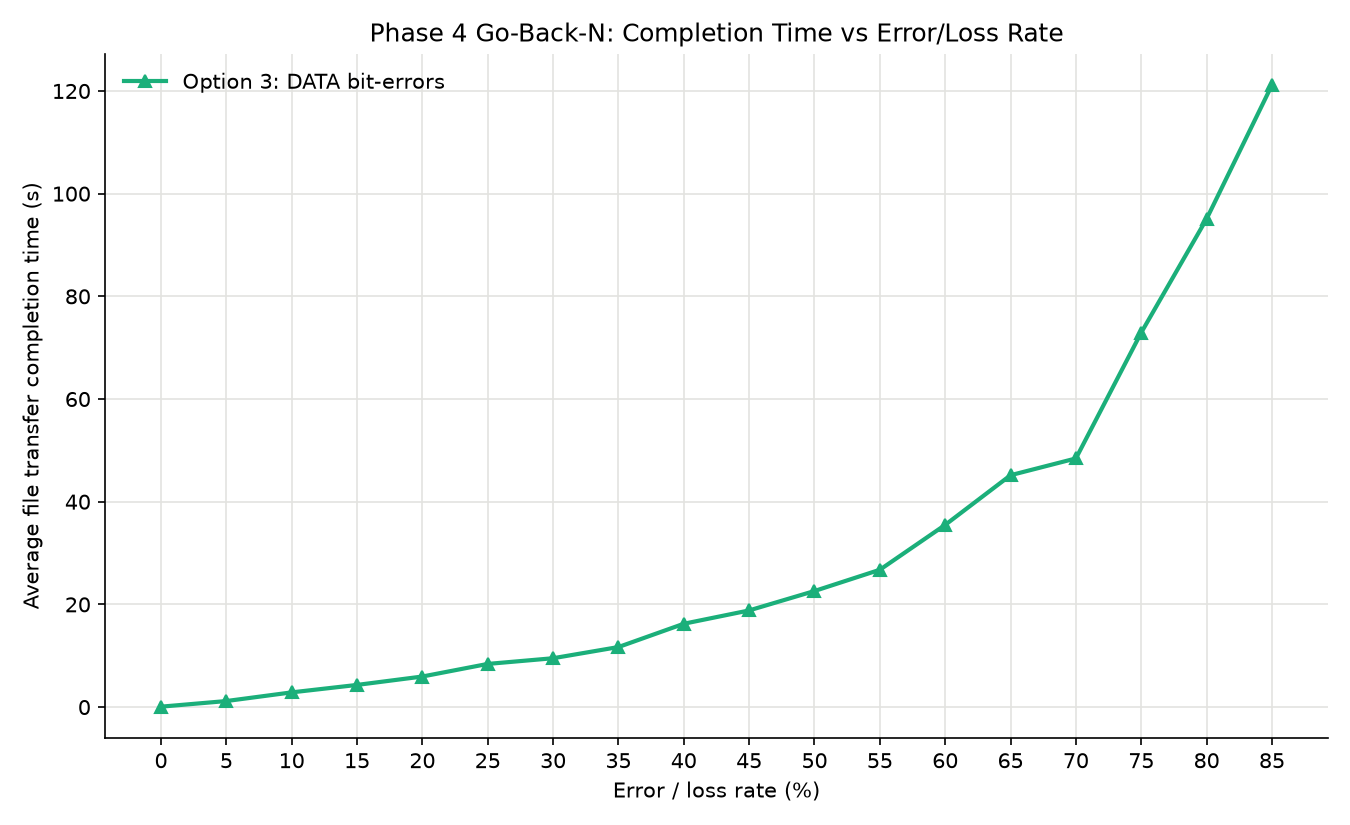
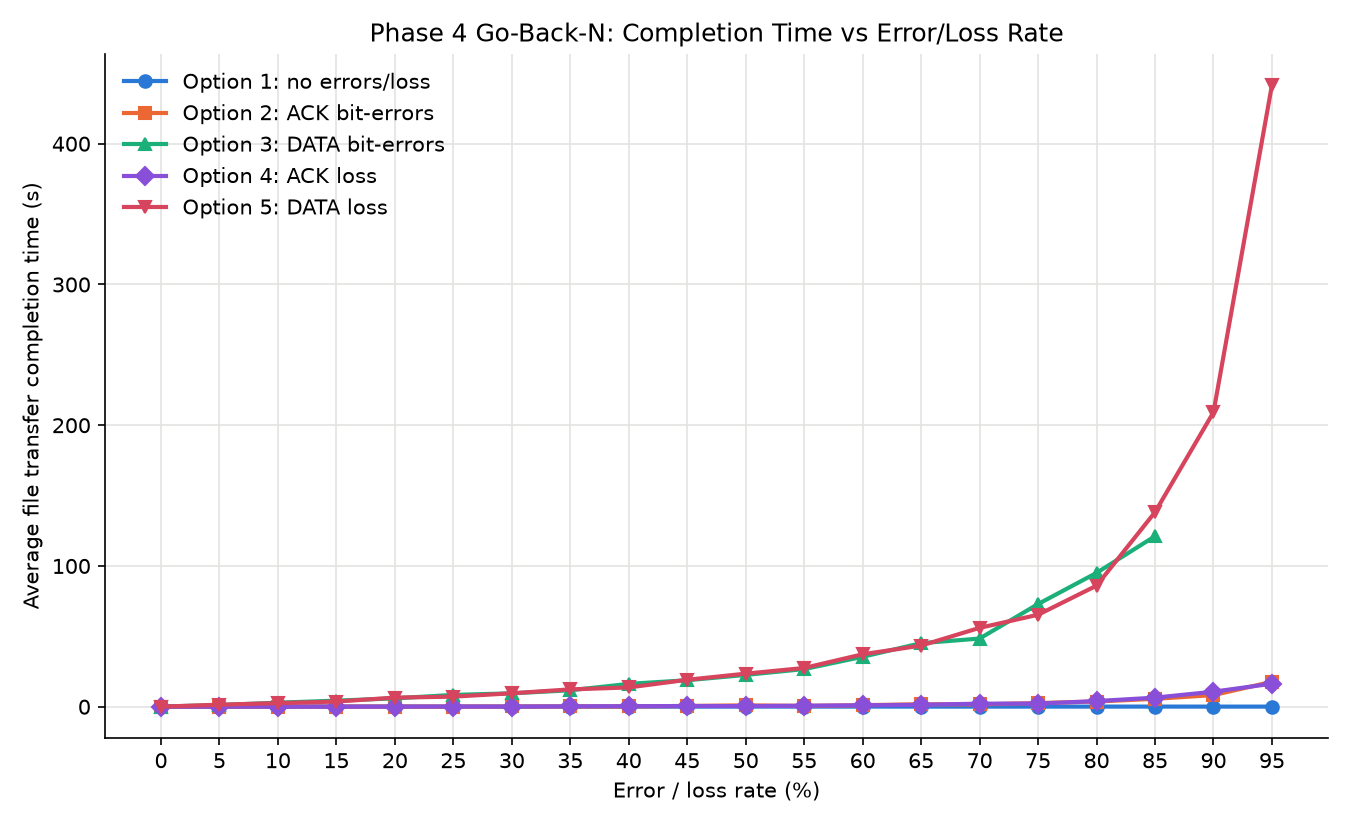
Complete Graph 1 with all five error and loss options

diff --git a/scripts/combine_graph1.py b/scripts/combine_graph1.py
@@ -1,0 +1,46 @@
+
+import csv
+from pathlib import Path
+
+ROOT = Path(__file__).resolve().parent.parent
+RESULTS = ROOT / "results"
+
+files = {
+    1: "option1_avg.csv",
+    2: "option2_avg.csv",
+    3: "option3_combined.csv",
+    4: "option4_avg.csv",
+    5: "option5_avg.csv",
+}
+
+fieldnames = ["rate_percent"] + [
+    f"option{i}_avg_s" for i in range(1, 6)
+]
+
+data = {}
+
+for option, filename in files.items():
+    with open(RESULTS / filename, newline="") as f:
+        reader = csv.DictReader(f)
+        for row in reader:
+            rate = int(row["rate_percent"])
+            key = f"option{option}_avg_s"
+
+            if rate not in data:
+                data[rate] = {"rate_percent": rate}
+
+            data[rate][key] = row[key]
+
+output = RESULTS / "graph1_combined.csv"
+
+with open(output, "w", newline="") as f:
+    writer = csv.DictWriter(f, fieldnames=fieldnames)
+    writer.writeheader()
+
+    for rate in range(0, 100, 5):
+        writer.writerow({
+            key: data.get(rate, {}).get(key, "")
+            for key in fieldnames
+        } | {"rate_percent": rate})
+
+print(f"Saved {output}")

diff --git a/scripts/plot_results.py b/scripts/plot_results.py
@@ -24,7 +24,7 @@ lines = {
 }
 
 rates, avg = [], {}
-with open(os.path.join(RESULTS, "option3_combined.csv")) as f:    
+with open(os.path.join(RESULTS, "graph1_combined.csv")) as f:    
     reader = csv.DictReader(f)
     options = [o for o in lines if f"option{o}_avg_s" in reader.fieldnames]
     for o in options:
@@ -32,8 +32,9 @@ with open(os.path.join(RESULTS, "option3_combined.csv")) as f:
     for row in reader:
         rates.append(int(row["rate_percent"]))
         for o in options:
-            avg[o].append(float(row[f"option{o}_avg_s"]))
-
+            value = row[f"option{o}_avg_s"]
+            avg[o].append(float(value) if value else float("nan"))
+            
 fig, ax = plt.subplots(figsize=(9, 5.5), dpi=150)
 for o in options:
     label, color, marker = lines[o]
